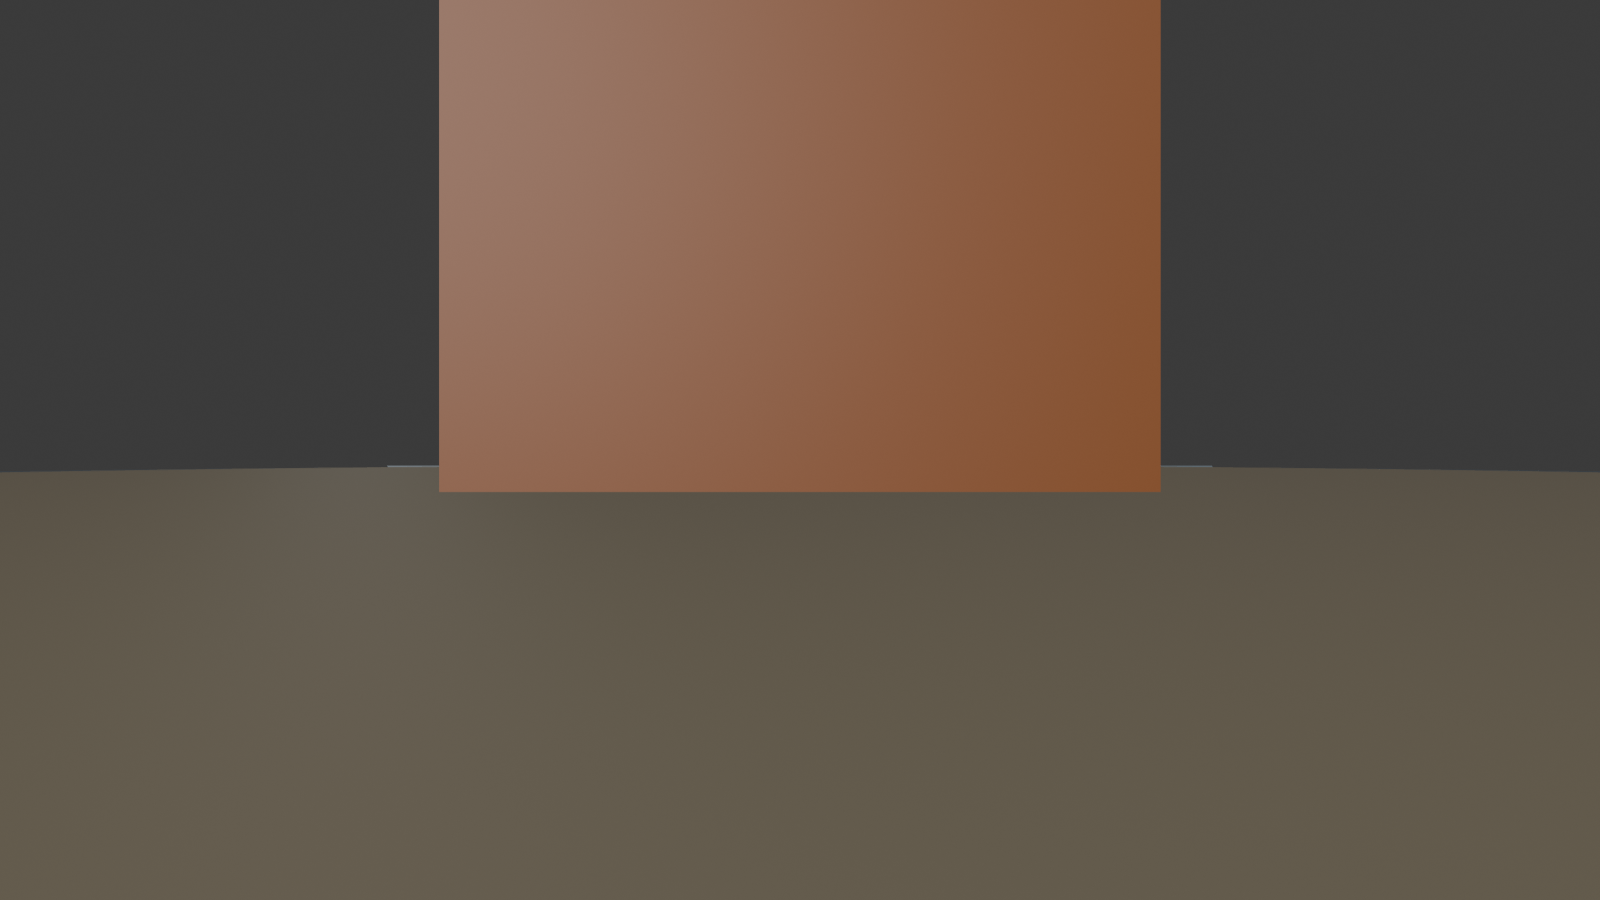
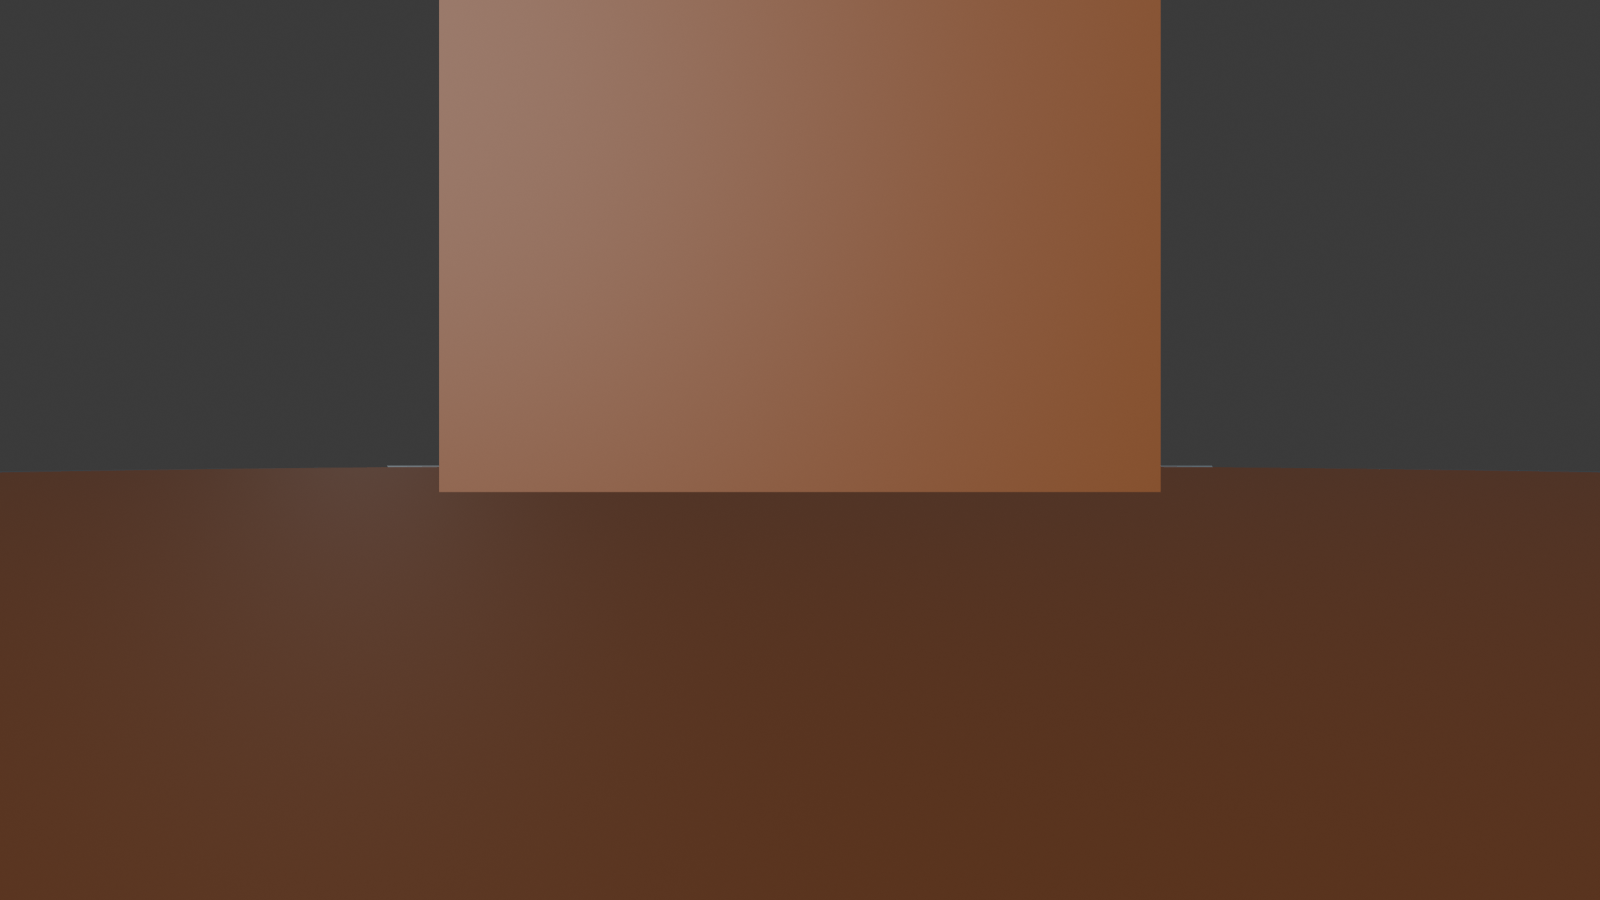
Phase 2: Terrain shell
Coastline with seeded per-angle jitter (mathutils.noise, seeded from
config.SCATTER_SEED), 2 rock outcrop bulges, 1 tidepool coastline notch,
west-side terracing (3 stepped bands per reference rule 2), split into 4
quadrant meshes (NE/NW/SW/SE) built directly via a new terrain_quadrant()
bmesh helper -- no booleans, so no n-gon/non-manifold risk from cuts.
Jitter/outcrop/notch amplitude tapers to exactly 0 at both gate boundary
angles, so the new coastline still meets Phase 1's beach ramp corners with
no seam. Also added the tide pool basin and the ocean floor slope
(OCEAN_FLOOR_NEAR to OCEAN_FLOOR_FAR by x=700) east of the gate.

Quadrant tri counts: NE/SE 152, NW/SW 248 -- all far under the 8,000/mesh
terrain budget. No two of the 96 coastline samples identical (continuous
noise).

Running validate.py against this (not just eyeballing renders) surfaced a
real, pre-existing bug: several objects had their world Z or world XY
baked directly into local vertex data while the object origin stayed
elsewhere, so the object's actual position wouldn't sit at the geometry's
base -- a real Roblox-import problem, not just a lint nitpick. Fixed by
calling lib.scene.set_origin_to_base() after construction (works in world
space regardless of how local vertices were authored) on: DD_Dock_North/
South, all 7 DD_Plot_Pad_*, DD_Terrain_Beach (Phase 1), and the new
terrain quadrants, DD_Terrain_OceanFloor, DD_Terrain_TidePool (Phase 2).
[…]

diff --git a/src/p2_terrain.py b/src/p2_terrain.py
@@ -1,0 +1,265 @@
+"""Phase 2 -- Terrain shell.
+
+Replaces Phase 1's flat placeholder island wedge with the real coastline:
+seeded per-angle jitter (no two of the 96 rim samples identical), two rock
+outcrop bulges, one tidepool coastline notch, the west-side terracing (3
+stepped bands, per CLAUDE.md reference rule 2), split into 4 quadrant
+meshes to stay under the 8,000-tri/mesh terrain budget. Plus the tide pool
+basin and the ocean floor slope beyond the gate.
+
+Design notes / scope calls (flagged, not silently assumed):
+  - Jitter/outcrop/notch amplitude is TAPERED TO ZERO at the two exact gate
+    boundary angles (+/-GATE_HALF_ANGLE) so the coastline still meets
+    Phase 1's beach ramp corners exactly -- no seam, no rebuild of Phase 1.
+  - The flat-to-terraced transition happens between MID_RADIUS (215, just
+    outside the plot ring's outer reach) and the coastline. Plots and plaza
+    (r<=205ish) stay on the flat Z=0 base Phase 1 already built on;
+    "recessed pad in a raised hillside" is read as intentional terracing,
+    not a defect. Full plaza-side stair integration is explicitly Phase 4
+    scope ("west terrace lift and steps"), not this one.
+  - Tide pool rim Z is set to a modest local value (2.0), not the full
+    WEST_TERRACE_LIFT -- keeps it visually coherent with the flat terrain
+    immediately around it in this pass; later phases can grade the ground
+    between them.
+  - The tide pool basin is intentionally open at the rim (non-manifold
+    boundary edges) -- it's a pit meant to sit inside the surrounding
+    terrain quadrant mesh, not a sealed standalone solid; sealing it would
+    mean cutting a matching hole in the terrain mesh and welding the two,
+    which is real terrain-boolean work out of this phase's scope. Flagged
+    in validate.py output, not silently ignored.
+  - DD_Struct_PlazaFloor (Phase 1's flat annulus placeholder) still fails
+    validate.py's manifold and origin-at-base checks -- pre-existing from
+    Phase 1 (a zero-thickness placeholder), unrelated to this phase's work,
+    and Phase 4 rebuilds it as real plaza geometry. Left untouched rather
+    than reaching into Phase 4's scope.
+
+Idempotent: purges "DD_Terrain_Island" (catches both Phase 1's old single
+wedge and any previous run's quadrants), "DD_Terrain_TidePool", and
+"DD_Terrain_OceanFloor" before rebuilding.
+"""
+import math
+import os
+import sys
+
+SRC_DIR = os.path.dirname(os.path.abspath(__file__))
+REPO_ROOT = os.path.dirname(SRC_DIR)
+if SRC_DIR not in sys.path:
+    sys.path.insert(0, SRC_DIR)
+
+import bpy
+import mathutils
+from mathutils import noise
+
+import config
+from lib import mesh as dd_mesh
+from lib import palette as dd_palette
+from lib import scene as dd_scene
+
+OWNED_PREFIXES = [
+    "DD_Terrain_Island",
+    "DD_Terrain_TidePool",
+    "DD_Terrain_OceanFloor",
+]
+
+MID_RADIUS = 215.0          # flat-to-terraced transition start (just past plot outer reach ~219.5)
+TAPER_DEG = 12.0            # jitter/outcrop/notch fade to 0 within this many degrees of the gate edge
+ISLAND_THICKNESS = 6.0
+
+OUTCROP_ANGLES = (70.0, 250.0)   # between plot lanes, away from the gate/tidepool
+OUTCROP_MAGNITUDE = 18.0
+OUTCROP_HALF_WIDTH = 14.0
+
+_POOL_ANGLE = math.degrees(math.atan2(config.POOL_XY[1], config.POOL_XY[0]))  # ~167.3 deg
+NOTCH_MAGNITUDE = 16.0
+NOTCH_HALF_WIDTH = 10.0
+
+TIDEPOOL_RIM_Z = 2.0
+
+noise.seed_set(config.SCATTER_SEED)
+
+
+def _smooth_bump(angle_deg, center_deg, half_width_deg):
+    d = abs(((angle_deg - center_deg + 180.0) % 360.0) - 180.0)
+    if d >= half_width_deg:
+        return 0.0
+    x = d / half_width_deg
+    return (1.0 - x * x) ** 2
+
+
+def _gate_taper(angle_deg):
+    """0 exactly at +/-GATE_HALF_ANGLE, ramping to 1 within TAPER_DEG."""
+    d_near = abs(angle_deg - config.GATE_HALF_ANGLE)
+    d_far = abs(angle_deg - (360.0 - config.GATE_HALF_ANGLE))
+    d = min(d_near, d_far)
+    if d >= TAPER_DEG:
+        return 1.0
+    x = d / TAPER_DEG
+    return x * x * (3.0 - 2.0 * x)  # smoothstep
+
+
+def _jitter(angle_deg):
+    t = math.radians(angle_deg)
+    p1 = mathutils.Vector((math.cos(t) * 1.5, math.sin(t) * 1.5, 0.0))
+    p2 = mathutils.Vector((math.cos(t) * 4.0, math.sin(t) * 4.0, 10.0))
+    n = noise.noise(p1) * 0.7 + noise.noise(p2) * 0.3
+    return n * config.COAST_JITTER
+
+
+def coast_radius(angle_deg):
+    """Island rim radius at this angle: base + jitter + outcrops - notch,
+    all tapered to exactly ISLAND_RADIUS at the gate boundary angles."""
+    delta = _jitter(angle_deg)
+    for oc in OUTCROP_ANGLES:
+        delta += OUTCROP_MAGNITUDE * _smooth_bump(angle_deg, oc, OUTCROP_HALF_WIDTH)
+    delta -= NOTCH_MAGNITUDE * _smooth_bump(angle_deg, _POOL_ANGLE, NOTCH_HALF_WIDTH)
+    return config.ISLAND_RADIUS + delta * _gate_taper(angle_deg)
+
+
+def terrace_z(angle_deg):
+    """West-side terracing: 3 stepped bands, 0 on the east half."""
+    d = abs(((angle_deg - 180.0 + 180.0) % 360.0) - 180.0)
+    if d >= 90.0:
+        return 0.0
+    if d < 30.0:
+        return config.WEST_TERRACE_LIFT
+    if d < 60.0:
+        return config.WEST_TERRACE_LIFT * 2.0 / 3.0
+    return config.WEST_TERRACE_LIFT * 1.0 / 3.0
+
+
+def purge():
+    for prefix in OWNED_PREFIXES:
+        dd_scene.purge_by_prefix(prefix)
+
+
+def build_quadrants():
+    arc = 360.0 - 2.0 * config.GATE_HALF_ANGLE
+    per_degree = config.COAST_SEGMENTS / arc
+    quadrants = [
+        ("NE", config.GATE_HALF_ANGLE, 90.0),
+        ("NW", 90.0, 180.0),
+        ("SW", 180.0, 270.0),
+        ("SE", 270.0, 360.0 - config.GATE_HALF_ANGLE),
+    ]
+    objs = []
+    for suffix, a0, a1 in quadrants:
+        segments = max(4, round((a1 - a0) * per_degree))
+        obj = dd_mesh.terrain_quadrant(
+            f"DD_Terrain_Island_{suffix}",
+            angle_start_deg=a0,
+            angle_end_deg=a1,
+            segments=segments,
+            mid_radius=MID_RADIUS,
+            outer_radius_fn=coast_radius,
+            outer_z_fn=terrace_z,
+            thickness=ISLAND_THICKNESS,
+            base_z=config.GROUND_Z,
+        )
+        dd_mesh.shade_flat(obj)
+        dd_scene.set_origin_to_base(obj)
+        dd_scene.link_to_collection(obj, "Terrain")
+        objs.append(obj)
+    return objs
+
+
+def build_tidepool():
+    cx, cy = config.POOL_XY
+    r = config.POOL_RADIUS
+    rim_z = TIDEPOOL_RIM_Z
+    floor_z = config.POOL_DEPTH
+    segments = 24
+
+    bm = None
+    import bmesh
+    bm = bmesh.new()
+    rim = []
+    floor = []
+    for i in range(segments):
+        t = 2.0 * math.pi * i / segments
+        x, y = cx + r * math.cos(t), cy + r * math.sin(t)
+        rim.append(bm.verts.new((x, y, rim_z)))
+        fx, fy = cx + (r * 0.6) * math.cos(t), cy + (r * 0.6) * math.sin(t)
+        floor.append(bm.verts.new((fx, fy, floor_z)))
+    floor_center = bm.verts.new((cx, cy, floor_z))
+    bm.verts.ensure_lookup_table()
+
+    for i in range(segments):
+        j = (i + 1) % segments
+        bm.faces.new((rim[i], rim[j], floor[j], floor[i]))          # sloped basin wall
+        bm.faces.new((floor_center, floor[i], floor[j]))            # basin floor fan
+
+    bmesh.ops.recalc_face_normals(bm, faces=bm.faces)
+    bm.normal_update()
+    obj = dd_mesh.bm_to_object("DD_Terrain_TidePool", bm)
+    dd_mesh.shade_flat(obj)
+    dd_scene.set_origin_to_base(obj)
+    dd_scene.link_to_collection(obj, "Terrain")
+    return obj
+
+
+def build_ocean_floor():
+    near_x = config.ISLAND_RADIUS + config.BEACH_RUN
+    far_x = 700.0
+    half_w = 300.0
+    top_near_z = config.OCEAN_FLOOR_NEAR
+    top_far_z = config.OCEAN_FLOOR_FAR
+    bottom_z = top_far_z - 20.0
+
+    verts = [
+        (near_x, -half_w, top_near_z), (near_x, half_w, top_near_z),
+        (far_x, half_w, top_far_z), (far_x, -half_w, top_far_z),
+        (near_x, -half_w, bottom_z), (near_x, half_w, bottom_z),
+        (far_x, half_w, bottom_z), (far_x, -half_w, bottom_z),
+    ]
+    faces = [
+        (0, 1, 2, 3), (4, 7, 6, 5),
+        (0, 4, 5, 1), (3, 2, 6, 7),
+        (0, 3, 7, 4), (1, 5, 6, 2),
+    ]
+    obj = dd_mesh.new_mesh_object("DD_Terrain_OceanFloor", verts, faces)
+    dd_mesh.recalc_normals_outward(obj)
+    dd_mesh.shade_flat(obj)
+    dd_scene.set_origin_to_base(obj)
+    dd_scene.link_to_collection(obj, "Terrain")
+    return obj
+
+
+def build():
+    dd_scene.ensure_collections()
+    purge()
+    build_quadrants()
+    build_tidepool()
+    build_ocean_floor()
+
+
+def capture_renders():
+    renders_dir = os.path.join(REPO_ROOT, "renders")
+    os.makedirs(renders_dir, exist_ok=True)
+
+    dd_objs = [o for o in bpy.data.objects if o.name.startswith("DD_")]
+    dd_palette.apply_debug_colors(dd_objs)
+
+    top_cam = dd_scene.setup_ortho_top_camera("RenderCam_Top", ortho_scale=1000.0, height=700.0)
+    dd_scene.render_to_file(top_cam, os.path.join(renders_dir, "p2_top_ortho.png"), xray=True)
+
+    eye_cam = dd_scene.setup_eye_camera(
+        "RenderCam_SpawnEye",
+        location=(config.SPAWN_XY[0], config.SPAWN_XY[1], 5.0),
+        facing_deg=config.SPAWN_FACING_DEG,
+        fov_deg=70.0,
+    )
+    dd_scene.render_to_file(eye_cam, os.path.join(renders_dir, "p2_spawn_eye.png"), xray=False)
+
+    # west-terrace / tidepool check angle
+    west_cam = dd_scene.setup_eye_camera(
+        "RenderCam_West",
+        location=(-100.0, 60.0, 15.0),
+        facing_deg=200.0,
+        fov_deg=70.0,
+    )
+    dd_scene.render_to_file(west_cam, os.path.join(renders_dir, "p2_west_terrace.png"), xray=False)
+
+
+if __name__ == "__main__":
+    build()
+    capture_renders()

diff --git a/src/lib/mesh.py b/src/lib/mesh.py
@@ -142,6 +142,58 @@ def wedge_solid(name, radius, angle_start_deg, angle_end_deg, thickness, segment
     return bm_to_object(name, bm, collection=collection)
 
 
+def terrain_quadrant(name, angle_start_deg, angle_end_deg, segments, mid_radius, outer_radius_fn, outer_z_fn, thickness, base_z=0.0, collection=None):
+    """One quadrant of undulating terrain: a flat disc from the centre out
+    to `mid_radius`, then a variable-radius / variable-height band from
+    `mid_radius` out to `outer_radius_fn(angle)` at height `base_z +
+    outer_z_fn(angle)`. Fully solid/watertight (top, bottom, rim wall, two
+    radial end walls), built directly with bmesh -- this is how the island's
+    coastline gets per-angle noise/terracing without a boolean.
+
+    `outer_radius_fn`/`outer_z_fn` take an angle in degrees and must return
+    the exact same value for a shared boundary angle between two adjacent
+    quadrant calls, or the quadrants won't line up seamlessly.
+    """
+    bm = bmesh.new()
+    mid_top, mid_bot, outer_top, outer_bot = [], [], [], []
+    for i in range(segments + 1):
+        t_deg = angle_start_deg + (angle_end_deg - angle_start_deg) * i / segments
+        t = math.radians(t_deg)
+        cos_t, sin_t = math.cos(t), math.sin(t)
+
+        mx, my = mid_radius * cos_t, mid_radius * sin_t
+        mid_top.append(bm.verts.new((mx, my, base_z)))
+        mid_bot.append(bm.verts.new((mx, my, base_z - thickness)))
+
+        r_out = outer_radius_fn(t_deg)
+        z_out = base_z + outer_z_fn(t_deg)
+        ox, oy = r_out * cos_t, r_out * sin_t
+        outer_top.append(bm.verts.new((ox, oy, z_out)))
+        outer_bot.append(bm.verts.new((ox, oy, base_z - thickness)))
+
+    center_top = bm.verts.new((0.0, 0.0, base_z))
+    center_bot = bm.verts.new((0.0, 0.0, base_z - thickness))
+    bm.verts.ensure_lookup_table()
+
+    for i in range(segments):
+        bm.faces.new((center_top, mid_top[i], mid_top[i + 1]))
+        bm.faces.new((center_bot, mid_bot[i + 1], mid_bot[i]))
+        bm.faces.new((mid_top[i], mid_top[i + 1], outer_top[i + 1], outer_top[i]))
+        bm.faces.new((mid_bot[i], outer_bot[i], outer_bot[i + 1], mid_bot[i + 1]))
+        bm.faces.new((outer_top[i], outer_top[i + 1], outer_bot[i + 1], outer_bot[i]))
+
+    # two radial end walls (quadrant boundary edges)
+    for idx in (0, segments):
+        bm.faces.new((center_top, mid_top[idx], mid_bot[idx], center_bot) if idx == 0
+                      else (center_top, center_bot, mid_bot[idx], mid_top[idx]))
+        bm.faces.new((mid_top[idx], outer_top[idx], outer_bot[idx], mid_bot[idx]) if idx == 0
+                      else (mid_top[idx], mid_bot[idx], outer_bot[idx], outer_top[idx]))
+
+    bmesh.ops.recalc_face_normals(bm, faces=bm.faces)
+    bm.normal_update()
+    return bm_to_object(name, bm, collection=collection)
+
+
 def shade_flat(obj):
     """Faceted shading -- the default for everything except water and rope."""
     for poly in obj.data.polygons:

diff --git a/src/p1_greybox.py b/src/p1_greybox.py
@@ -38,7 +38,8 @@ OWNED_PREFIXES = [
     "DD_Terrain_Beach",
     "DD_Struct_Shop",
     "DD_Struct_Spire",
-    "DD_Plaza_Floor",
+    "DD_Struct_PlazaFloor",
+    "DD_Plaza_Floor",  # legacy name (invalid category, "Plaza" isn't in the naming regex) -- cleans up old runs
     "DD_Plot_Pad_",
     "DD_Dock_North",
     "DD_Dock_South",
@@ -97,6 +98,7 @@ def build_beach_ramp():
     obj = dd_mesh.new_mesh_object("DD_Terrain_Beach", verts, faces)
     dd_mesh.recalc_normals_outward(obj)
     dd_mesh.shade_flat(obj)
+    dd_scene.set_origin_to_base(obj)
     dd_scene.link_to_collection(obj, "Terrain")
     return obj
 
@@ -118,7 +120,10 @@ def build_spire():
 
 
 def build_plaza_floor():
-    obj = dd_mesh.annulus("DD_Plaza_Floor", config.PLAZA_INNER_R, config.PLAZA_OUTER_R, base_z=config.PLAZA_LIFT, segments=64)
+    # Named DD_Struct_* not DD_Plaza_* -- "Plaza" is a collection, not a
+    # valid naming category (see CLAUDE.md NAMING; only Terrain/Struct/Plot/
+    # Dock/Prop/Nature/Marker/UI/Lamp/Overhead/Lore/Sub are).
+    obj = dd_mesh.annulus("DD_Struct_PlazaFloor", config.PLAZA_INNER_R, config.PLAZA_OUTER_R, base_z=config.PLAZA_LIFT, segments=64)
     dd_mesh.shade_flat(obj)
     dd_scene.link_to_collection(obj, "Plaza")
     return obj
@@ -134,6 +139,7 @@ def build_plots():
         obj = dd_mesh.box(name, config.PLOT_SIZE, config.PLOT_SIZE, thickness, base_z=-thickness, yaw=yaw)
         obj.location = (x, y, config.PLOT_Z)
         dd_mesh.shade_flat(obj)
+        dd_scene.set_origin_to_base(obj)
         dd_scene.link_to_collection(obj, "Plots")
         objs.append(obj)
     return objs
@@ -148,6 +154,7 @@ def build_docks():
         obj = dd_mesh.box(name, config.DOCK_LENGTH, DOCK_WIDTH, 1.0, base_z=-1.0)
         obj.location = (center_x, sign * config.DOCK_OFFSET_Y, 0.0)
         dd_mesh.shade_flat(obj)
+        dd_scene.set_origin_to_base(obj)
         dd_scene.link_to_collection(obj, "Docks")
         objs.append(obj)
     return objs
